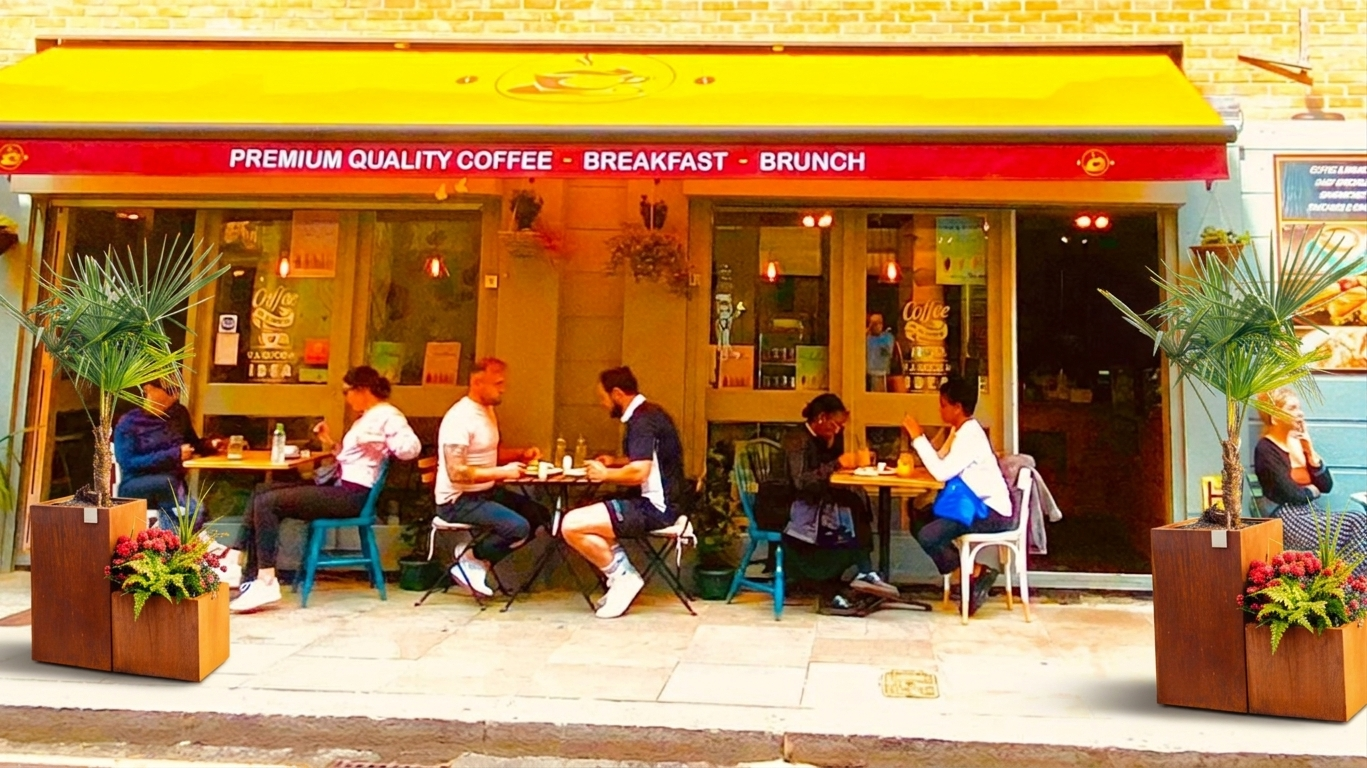
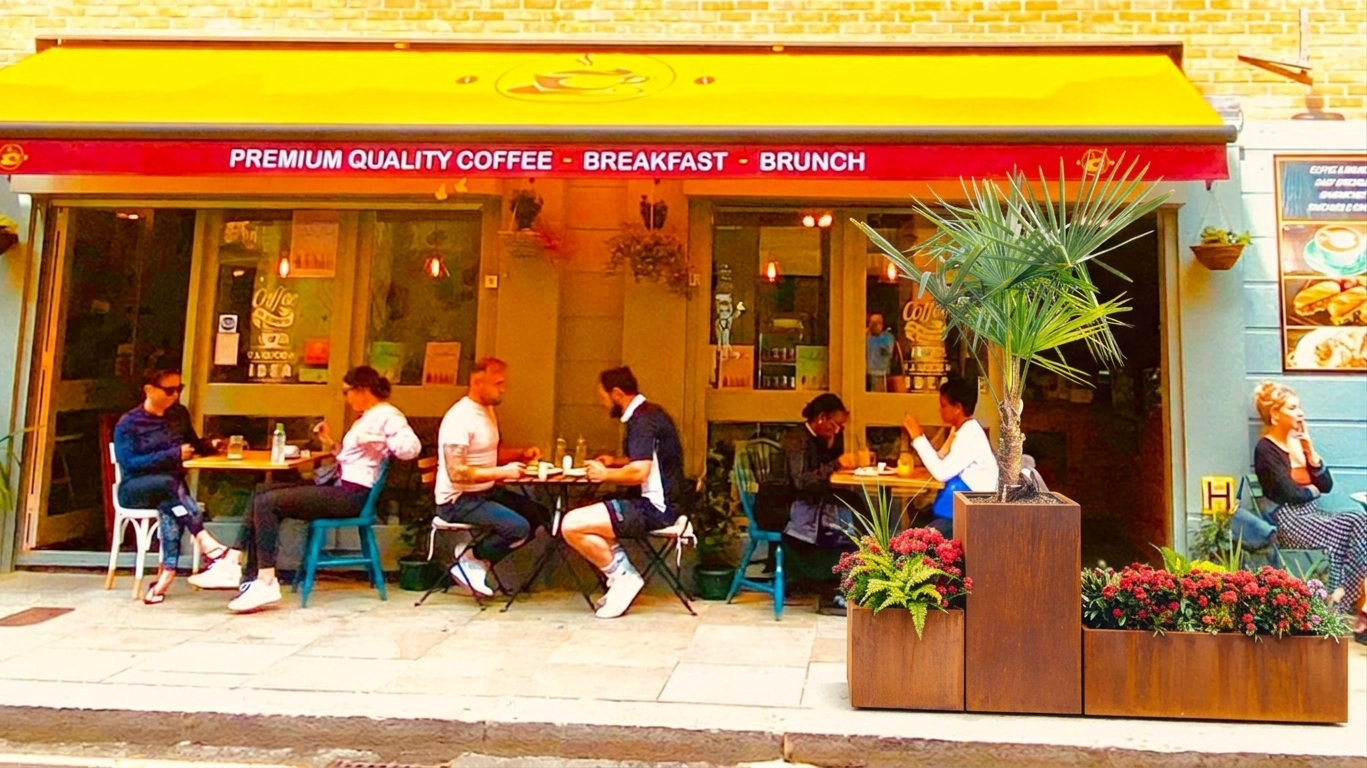
Product-aware placement: style each planter the way its reference shows
Looked at the three product photos again and encoded each one's real styling
into products.json (placement_style/typical_quantity) and the compositor:
- Charcoal Cylinder = a cluster/row of broad low drums forming a green border
- Corten Tiered Set = a one-side/corner vertical statement (palm + stepped cube
  + trough), never a matching pair of 2m palms
- White Tapered = the pair side by side as a low band under a window
Judge catalogue summary now carries footprint/space needs so recommendations fit
the frontage. Re-composited the committed three in place.

Changed region(s): [[0.5838, 0.1875, 1.0, 0.9688], [0.0, 0.3125, 0.1843, 0.9062], [0.6145, 0.2812, 0.6452, 0.3125]]

diff --git a/pipeline/src/composite.ts b/pipeline/src/composite.ts
@@ -25,15 +25,16 @@ IMAGE 1 = the real venue frontage. Treat the building, windows, door, signage, p
 
 IMAGE 2 = the client's ACTUAL product that must appear: "${p.name}" – ${p.form}, ${p.material}. Planting: ${p.planting}. Reproduce THIS exact planter and planting faithfully (same shape, material, colour, proportions and plants). Do NOT substitute a generic planter.
 
-QUANTITY & ARRANGEMENT:
-- Style it like a real venue would – not a single lonely planter on a wide frontage. If IMAGE 2 shows a SET or a PAIR of planters, place the whole set/pair as shown. If it shows a SINGLE planter, place a MATCHED PAIR flanking the entrance (one on each side) or an even short row lining the frontage, as the pavement width allows. Every unit must be IDENTICAL to IMAGE 2 and at matching scale. Only on a genuinely narrow pavement is a single unit acceptable.
+HOW THIS PRODUCT IS STYLED (follow this exactly – it is how the client arranges it):
+${p.placement_style}
+Typical quantity: ${p.typical_quantity}. Every unit must be IDENTICAL to IMAGE 2 and at matching scale.
 
-PLACEMENT (critical – this is how a real venue would style it):
-- Suggested spot: ${placement}.
-- Place the planter(s) to the SIDE(S) of the entrance, flanking the door or lining the frontage against the building wall / beneath the windows.
+PLACEMENT ON THIS FRONTAGE (critical):
+- Best spot here: ${placement}.
+- Follow the styling above, adapted to this frontage. Keep the arrangement deliberate and balanced – not a single lonely pot, not scattered, not a symmetric pair where the styling calls for a grouping.
 - NEVER place a planter directly in front of the door, in the doorway, or where it blocks the entrance. The doorway and the natural path walking INTO the venue must stay completely clear and unobstructed.
-- Keep the pavement walking route clear – do not block where pedestrians pass. If the pavement is narrow, use fewer or smaller units kept tight against the wall.
-- Do not place planters in the road or on top of existing seating/bins/signage.
+- Keep the pavement walking route clear – set planters tight against the building frontage, not out in the pedestrian line or the road. Do not place them on top of existing seating/bins/signage.
+- If the pavement is genuinely too narrow for the full arrangement, use fewer units kept tight to the wall rather than crowding the path.
 - ${p.scale_notes}
 
 Scale: the planter's real size is ${dims}. A standard doorway is about 2m tall and an adult about 1.7m – size the planter so it is correct relative to the door and any people in the shot. Do not make it oversized or toy-sized.

diff --git a/pipeline/src/products.ts b/pipeline/src/products.ts
@@ -14,6 +14,8 @@ export interface Product {
   palette: string;
   dimensions_cm: Record<string, number>;
   footprint_cm: { width: number; depth: number };
+  typical_quantity: string;
+  placement_style: string;
   best_for: string;
   scale_notes: string;
 }
@@ -40,6 +42,6 @@ export function productImage(id: string): InlineImage {
 /** Compact catalog summary fed to the vision judge for product recommendation. */
 export function catalogSummary(): string {
   return catalog
-    .map((p) => `- ${p.id} ("${p.name}"): ${p.form}, ${p.material}; ${p.palette}; best for ${p.best_for}. Footprint ~${p.footprint_cm.width}x${p.footprint_cm.depth}cm.`)
+    .map((p) => `- ${p.id} ("${p.name}"): ${p.form}; ${p.palette}; typically ${p.typical_quantity}; footprint ~${p.footprint_cm.width}x${p.footprint_cm.depth}cm. Best for: ${p.best_for}. Needs: ${p.id === 'product-b-corten-tiered' ? 'a WIDE pavement or corner (tall ~2m palm)' : 'room for the grouping shown'}.`)
     .join('\n');
 }
